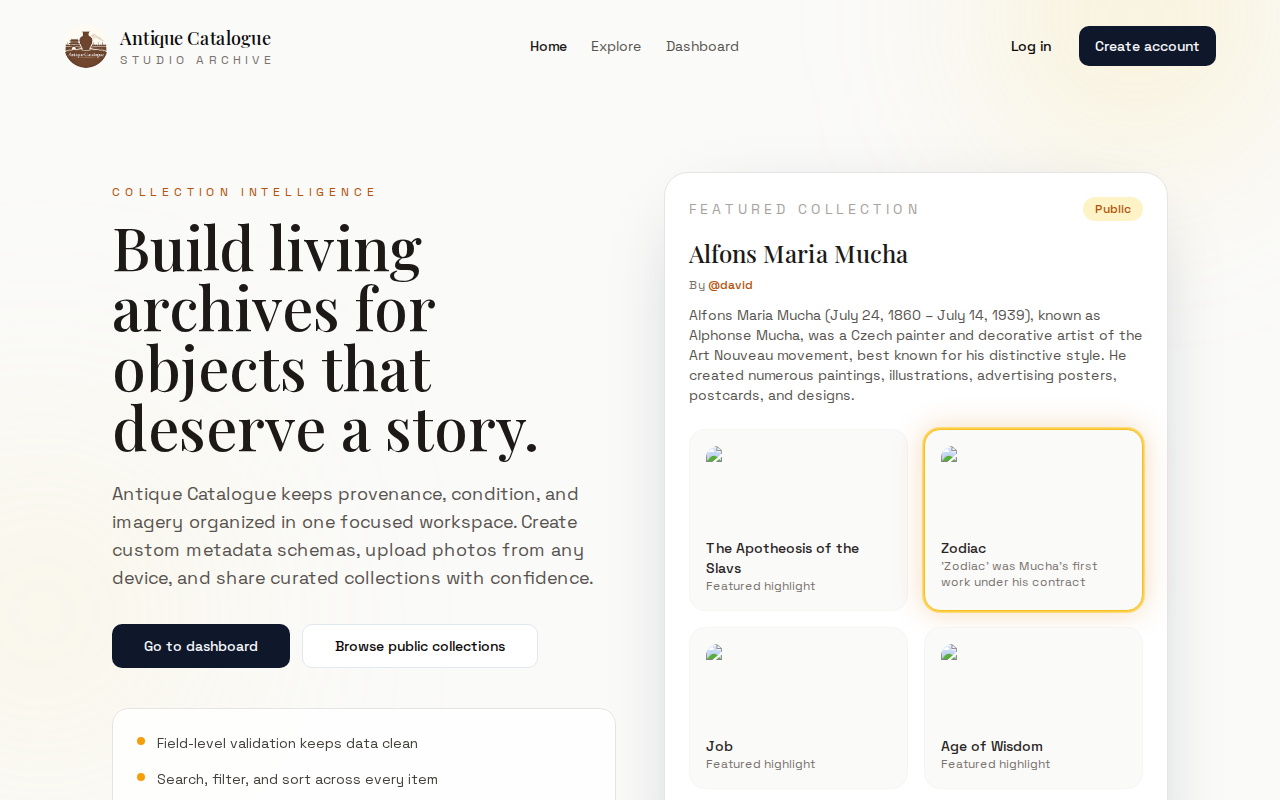
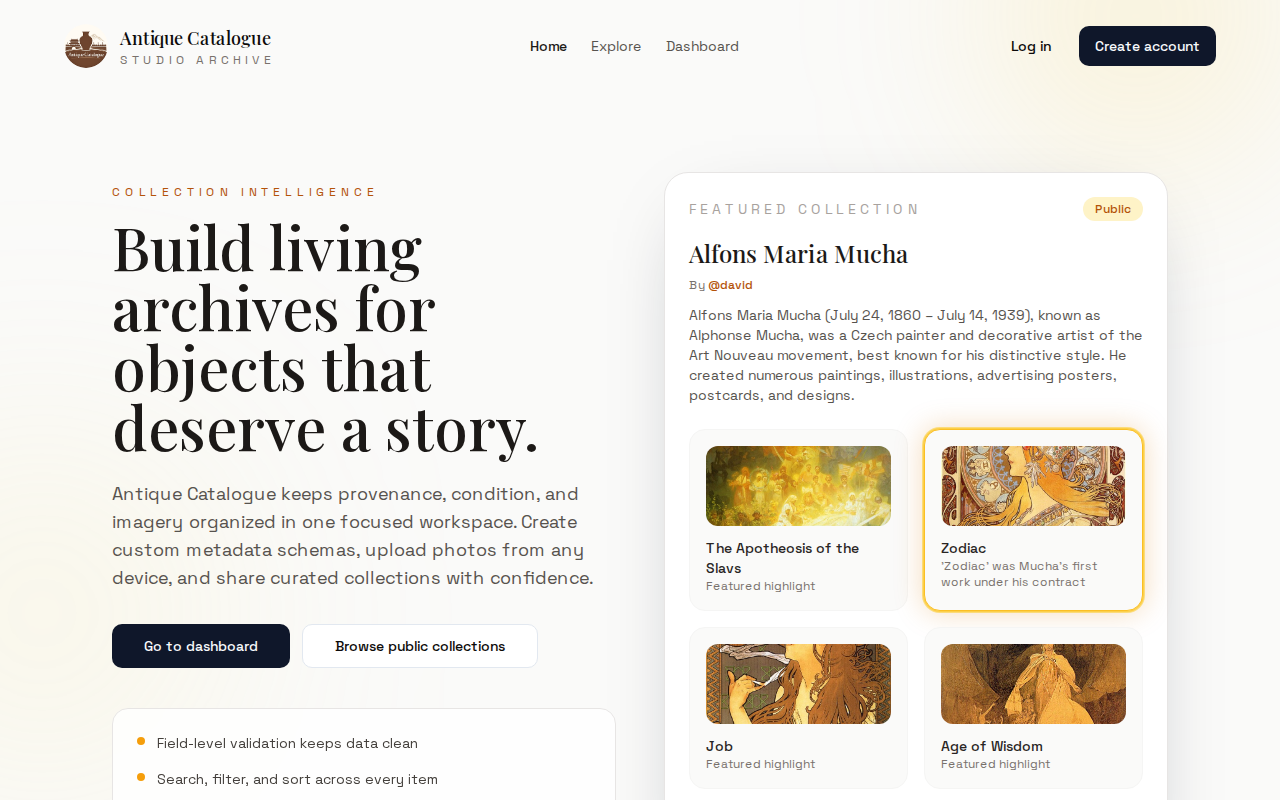
Fix /api proxy: add Next.js rewrites to forward /api/* to backend
The frontend builds image URLs as /api/images/{id}/{variant}.jpg but the
backend serves them at /images/{id}/{variant}.jpg. Added Next.js rewrites
to proxy all /api/* requests to the backend (INTERNAL_API_URL), fixing
broken images on the landing page and any other client-side API calls.

Also updated the screenshot with working images in English locale.

Changed region(s): [[0.5312, 0.7812, 0.9062, 0.9062], [0.5312, 0.5312, 0.9062, 0.6562]]

diff --git a/frontend/next.config.js b/frontend/next.config.js
@@ -1,7 +1,19 @@
 /** @type {import('next').NextConfig} */
 const nextConfig = {
   reactStrictMode: true,
-  output: "standalone"
+  output: "standalone",
+  async rewrites() {
+    const backend =
+      process.env.INTERNAL_API_URL ||
+      process.env.API_INTERNAL_URL ||
+      "http://backend:8000";
+    return [
+      {
+        source: "/api/:path*",
+        destination: `${backend}/:path*`,
+      },
+    ];
+  },
 };
 
 export default nextConfig;
